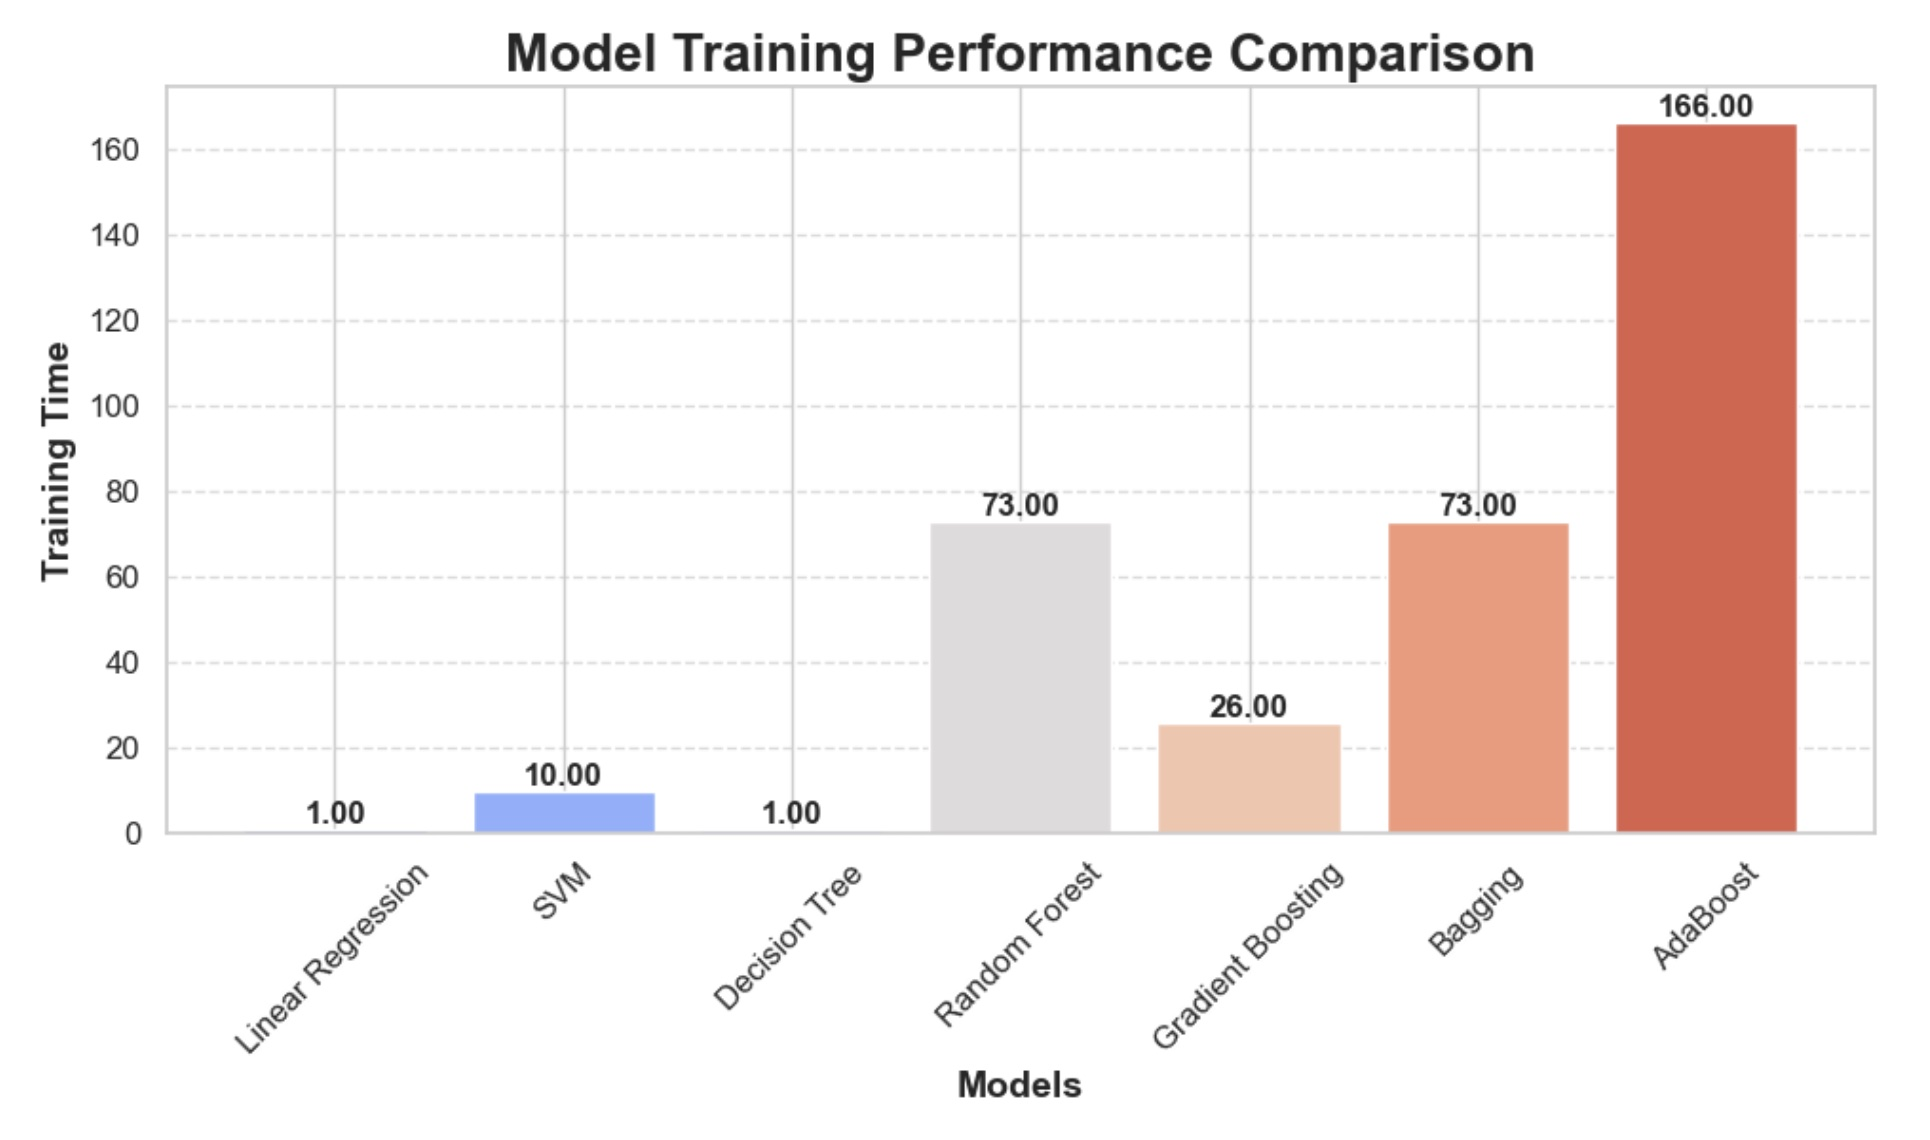
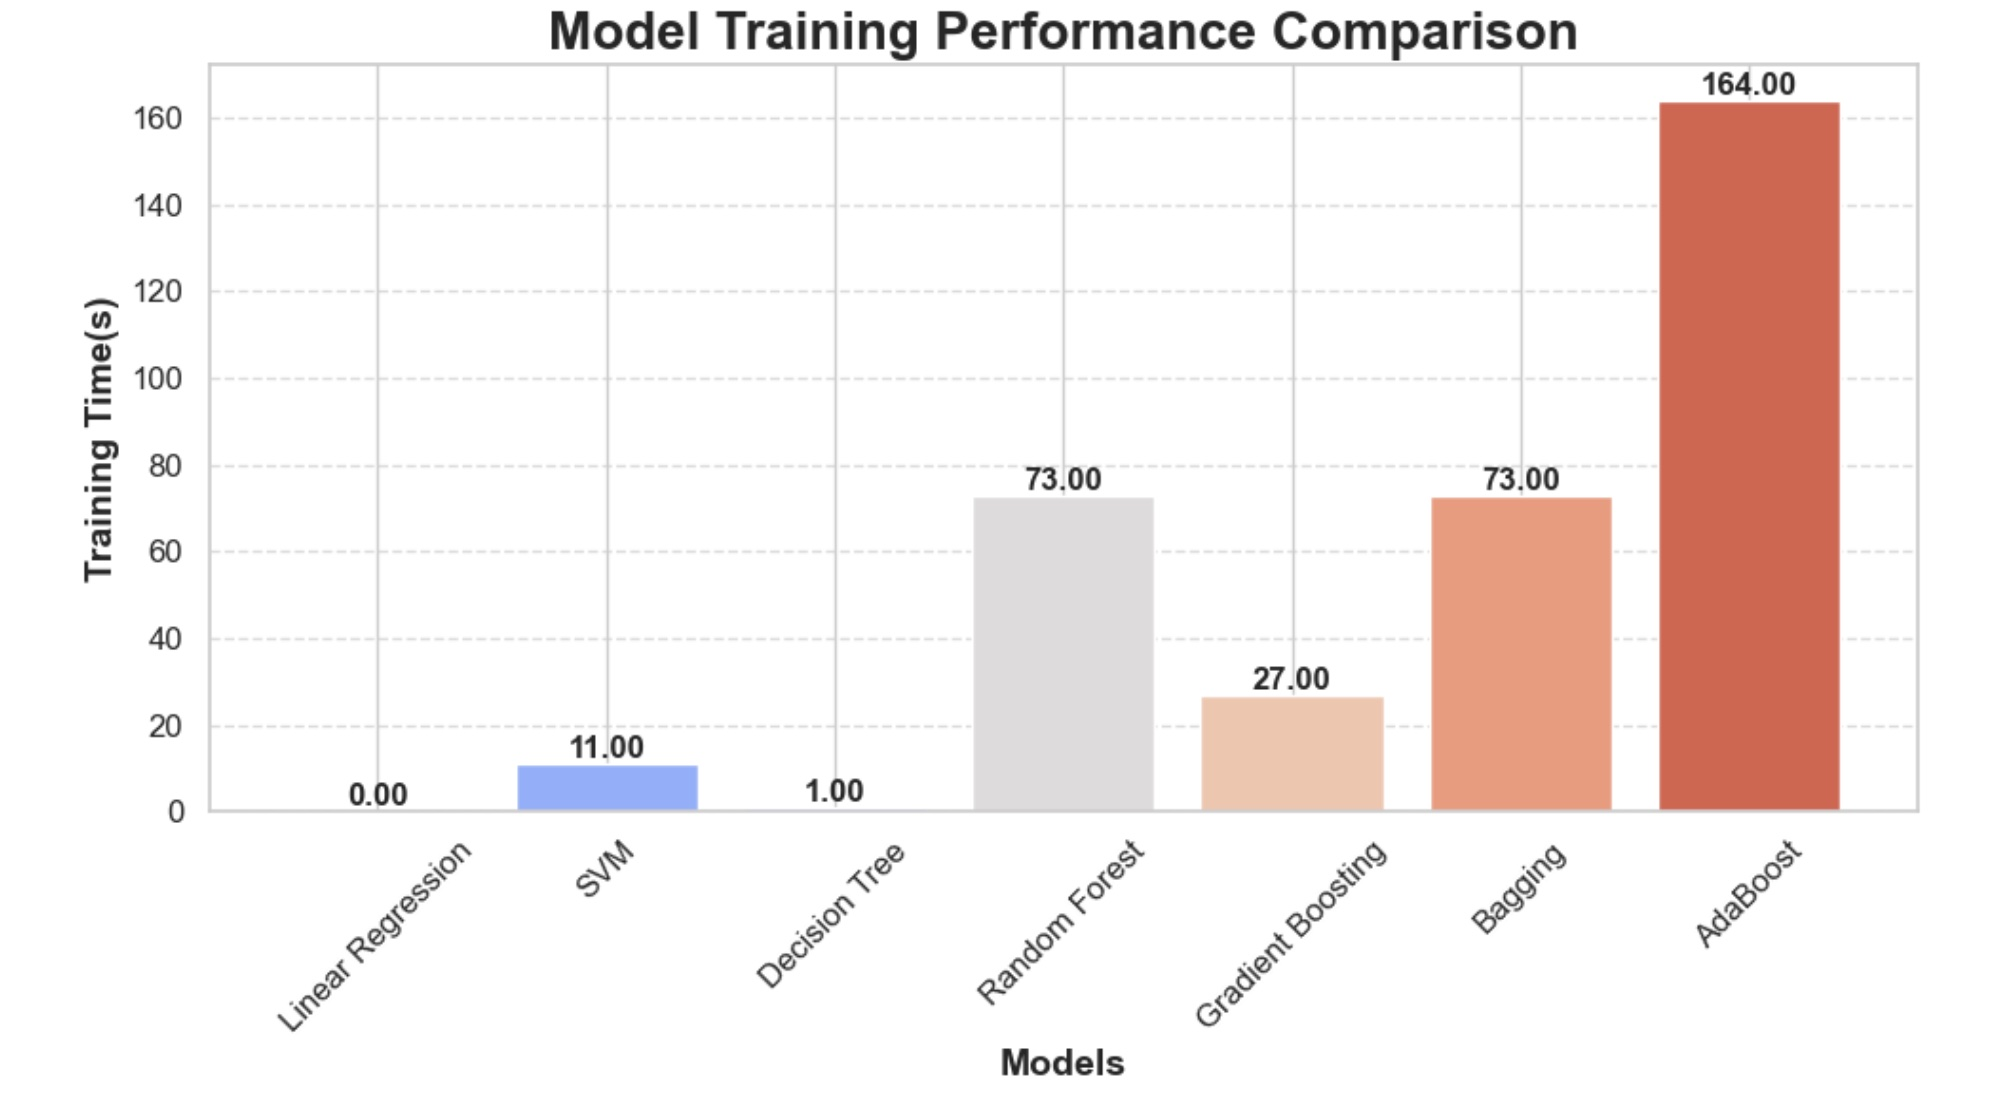
output commit

diff --git a/machine_learning/exp3/renting_house.py b/machine_learning/exp3/renting_house.py
@@ -229,10 +229,8 @@ for key, estimator in estimator_dict.items():
     training_time[key] = train_time
     print('%s: %s' % (key, result))
 plot_models_predict_result(list(mae_dict.keys()), list(mae_dict.values()), 'Mean Absolute Error(MAE)')
-# time.sleep(30)
 plot_models_predict_result(list(accuracy_dict.keys()), list(accuracy_dict.values()), 'Average Accuracy')
-# time.sleep(30)
-plot_models_predict_result(list(training_time.keys()), list(training_time.values()), 'Training Time')
+plot_models_predict_result(list(training_time.keys()), list(training_time.values()), 'Training Time(s)')
 
 
 '''
